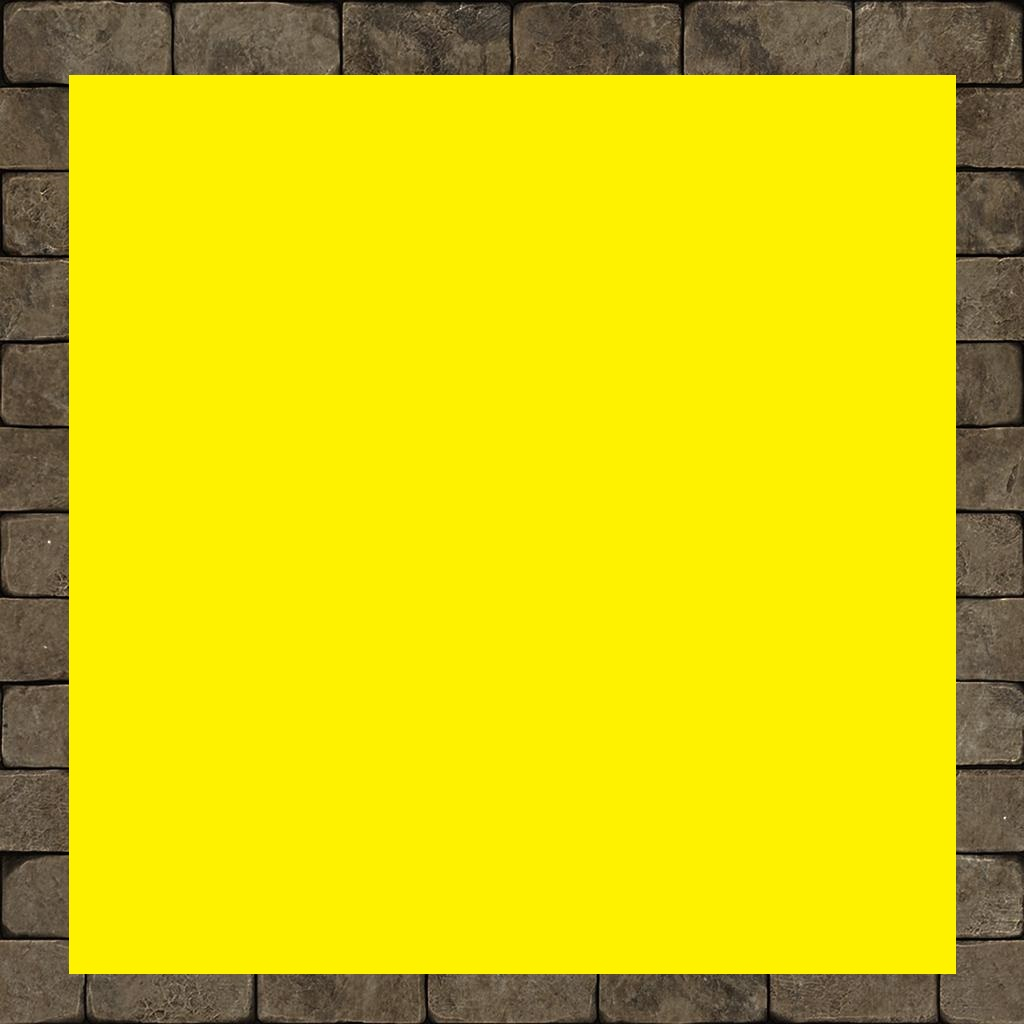
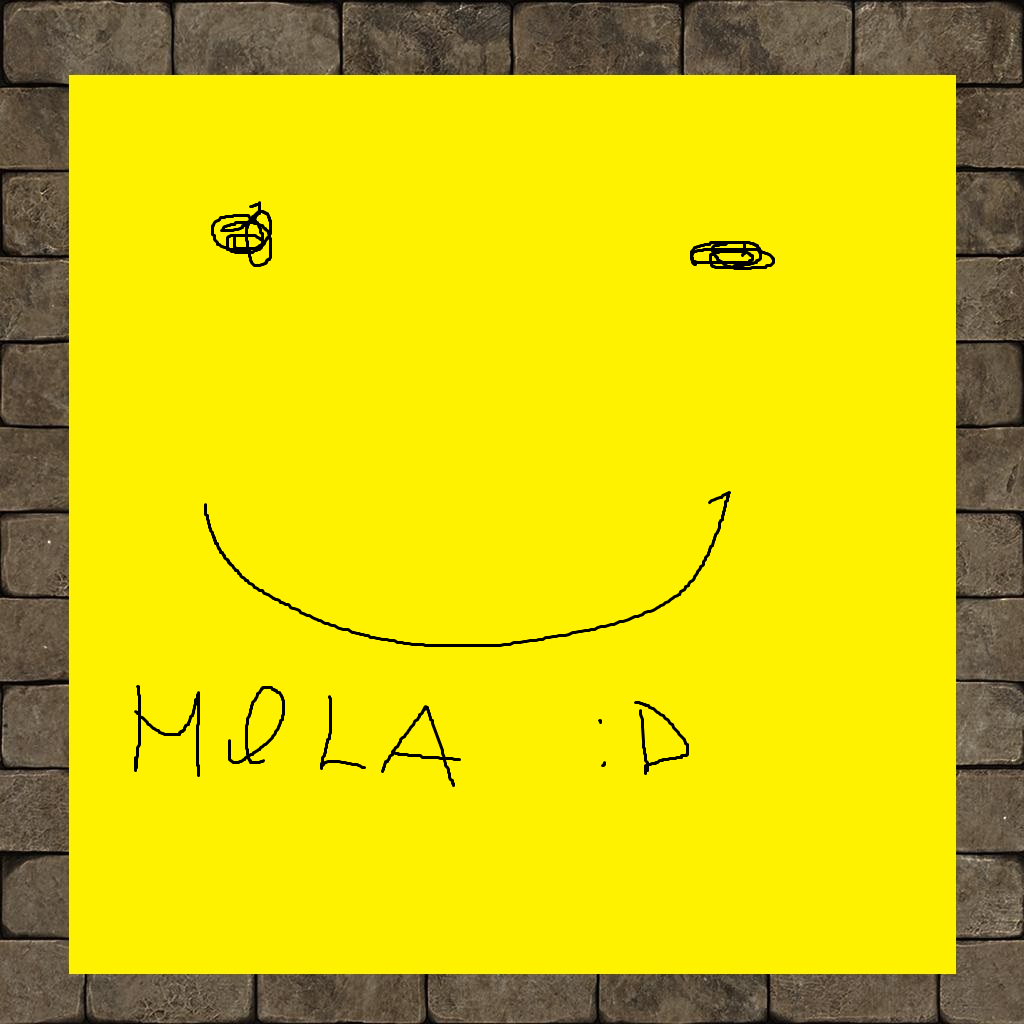
sync

diff --git a/Core/src/gfx/dx11/Bindables/DX11Texture.cpp b/Core/src/gfx/dx11/Bindables/DX11Texture.cpp
@@ -1,8 +1,6 @@
 #include "DX11Texture.h"
-#define STB_IMAGE_IMPLEMENTATION
-#include <Core/third/stb_image.h>
-#include <core/third/lodepng/lodepng.h>
 #include <Core/src/gfx/dx11/GraphicsError.h>
+#include <Core/third/stb_image/stb_image.h>
 
 namespace tryn::gfx
 {
@@ -13,17 +11,8 @@ namespace tryn::gfx
 		this->path = path.string();
 		this->slot = slot;
 
-		unsigned int width, height, numChannels = 4;
-		//unsigned char* texture = stbi_load(this->path.c_str(), &width, &height, &numChannels, STBI_rgb_alpha);
-
-		std::vector<unsigned char> image;
-
-		lodepng::decode(image, width, height, this->path);
-
-		if (numChannels == 4)
-		{
-			hasAlpha = true;
-		}
+		int width, height, numChannels;
+		auto texture = stbi_load(this->path.c_str(), &width, &height, &numChannels, STBI_rgb_alpha);
 
 		//trynass_msg(texture != nullptr, L"The specified file could not be loaded!");
 
@@ -32,18 +21,18 @@ namespace tryn::gfx
 		td.Height = height;
 		td.MipLevels = 0;
 		td.ArraySize = 1;
-		td.Format = DXGI_FORMAT_R8G8B8A8_UNORM_SRGB;
+		td.Format = DXGI_FORMAT_R8G8B8A8_UNORM;
 		td.SampleDesc.Count = 1;
 		td.SampleDesc.Quality = 0;
 		td.Usage = D3D11_USAGE_DEFAULT;
-		td.BindFlags = D3D11_BIND_SHADER_RESOURCE;
-		td.MiscFlags = D3D10_RESOURCE_MISC_GENERATE_MIPS;
+		td.BindFlags = D3D11_BIND_SHADER_RESOURCE | D3D11_BIND_RENDER_TARGET;
+		td.MiscFlags = D3D11_RESOURCE_MISC_GENERATE_MIPS;
 
 		Microsoft::WRL::ComPtr<ID3D11Texture2D> pTexture;
 		gfx.GetDevice()->CreateTexture2D(&td, nullptr, &pTexture) >> chk;
 
 		gfx.GetContext()->UpdateSubresource(
-			pTexture.Get(), 0u, nullptr, image.data(), width * numChannels, 0u
+			pTexture.Get(), 0u, nullptr, texture, width * numChannels, 0u
 		);
 
 		D3D11_SHADER_RESOURCE_VIEW_DESC srvd = {};

diff --git a/WindowSandbox/TestApp.cpp b/WindowSandbox/TestApp.cpp
@@ -20,8 +20,8 @@ TestApp::TestApp(std::shared_ptr<win::IWindow> wnd, std::shared_ptr<gfx::IGraphi
 
 	camera.GetPosition() = {0.0f,0.0f,-3.0f};
 
-	suzanne = std::make_unique<ent::BasicEntity>(Gfx(), "suzanne", "resources/models/suzanne.obj");
-	//sponza = std::make_unique<ent::BasicEntity>(Gfx(), "sponza", "resources/models/Sponza/sponza.obj", glm::vec3{0.01f,0.01f,0.01f});
+	//suzanne = std::make_unique<ent::BasicEntity>(Gfx(), "suzanne", "resources/models/suzanne.obj");
+	sponza = std::make_unique<ent::BasicEntity>(Gfx(), "sponza", "resources/models/Sponza/sponza.obj", glm::vec3{0.01f,0.01f,0.01f});
 	pPointLight = std::make_unique<gfx::PointLight>(Gfx(), 0.01f);
 	wall = std::make_unique<ent::BasicEntity>(Gfx(), "wall", "resources/models/brick_wall/brick_wall.obj");
 }
@@ -33,8 +33,8 @@ void TestApp::DoFrame()
 	{
 		static constexpr float angle = 0.001f;
 		PROFILE_SCOPE("Update Rotation");
-		suzanne->GetModel().SpawnControlWindow();
-		//sponza->GetModel().SpawnControlWindow();
+		//suzanne->GetModel().SpawnControlWindow();
+		sponza->GetModel().SpawnControlWindow();
 		wall->GetModel().SpawnControlWindow();
 		pPointLight->ShowControls();
 		pPointLight->GetModel().SpawnControlWindow();
@@ -43,7 +43,7 @@ void TestApp::DoFrame()
 		PROFILE_SCOPE("Draw call");
 		pPointLight->Draw();
  		//suzanne->Draw();
-		//sponza->Draw();
+		sponza->Draw();
 		wall->Draw();
 	}
 	{

diff --git a/Core/third/stb_image/stb_image.cpp b/Core/third/stb_image/stb_image.cpp
@@ -1,0 +1,2 @@
+#define STB_IMAGE_IMPLEMENTATION
+#include "stb_image.h"
